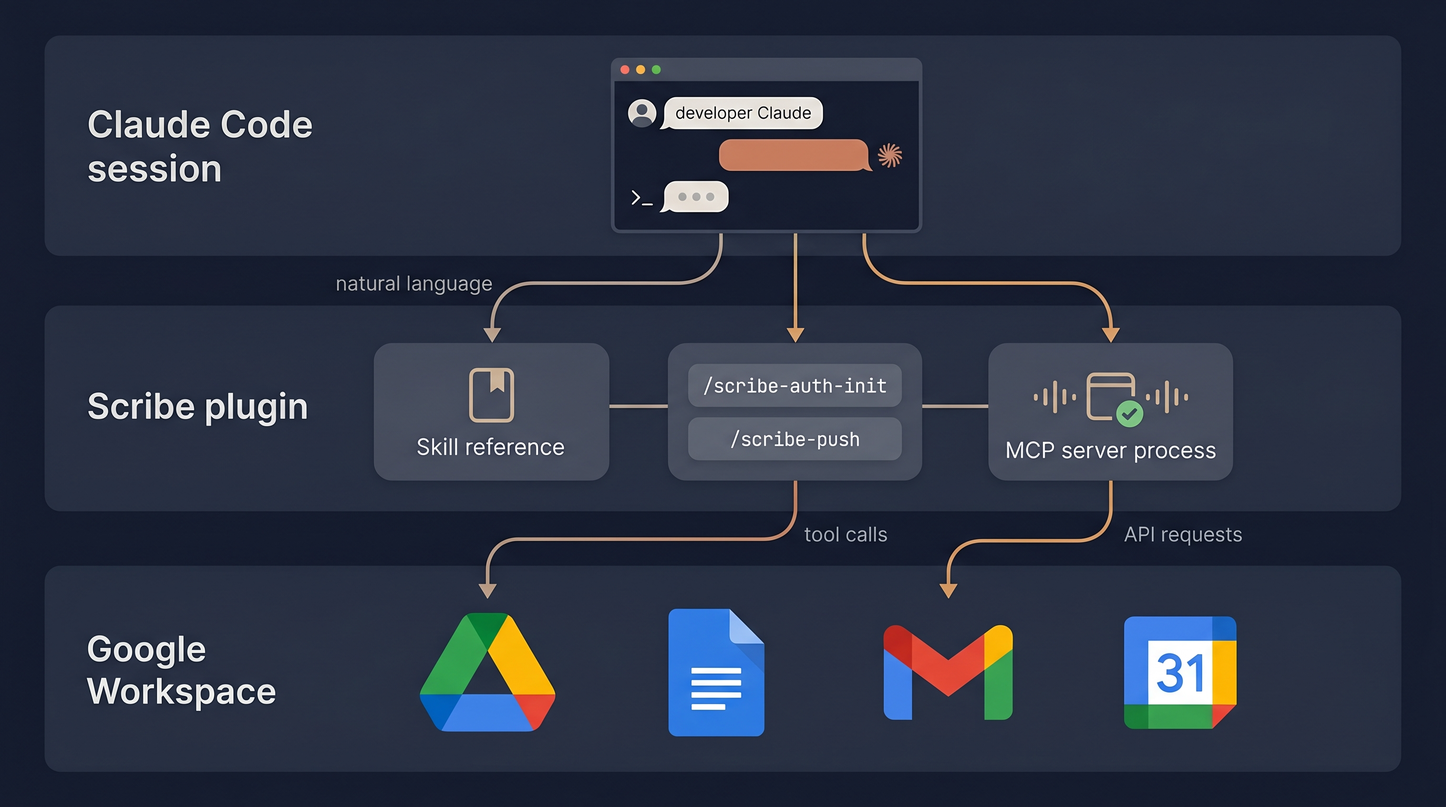
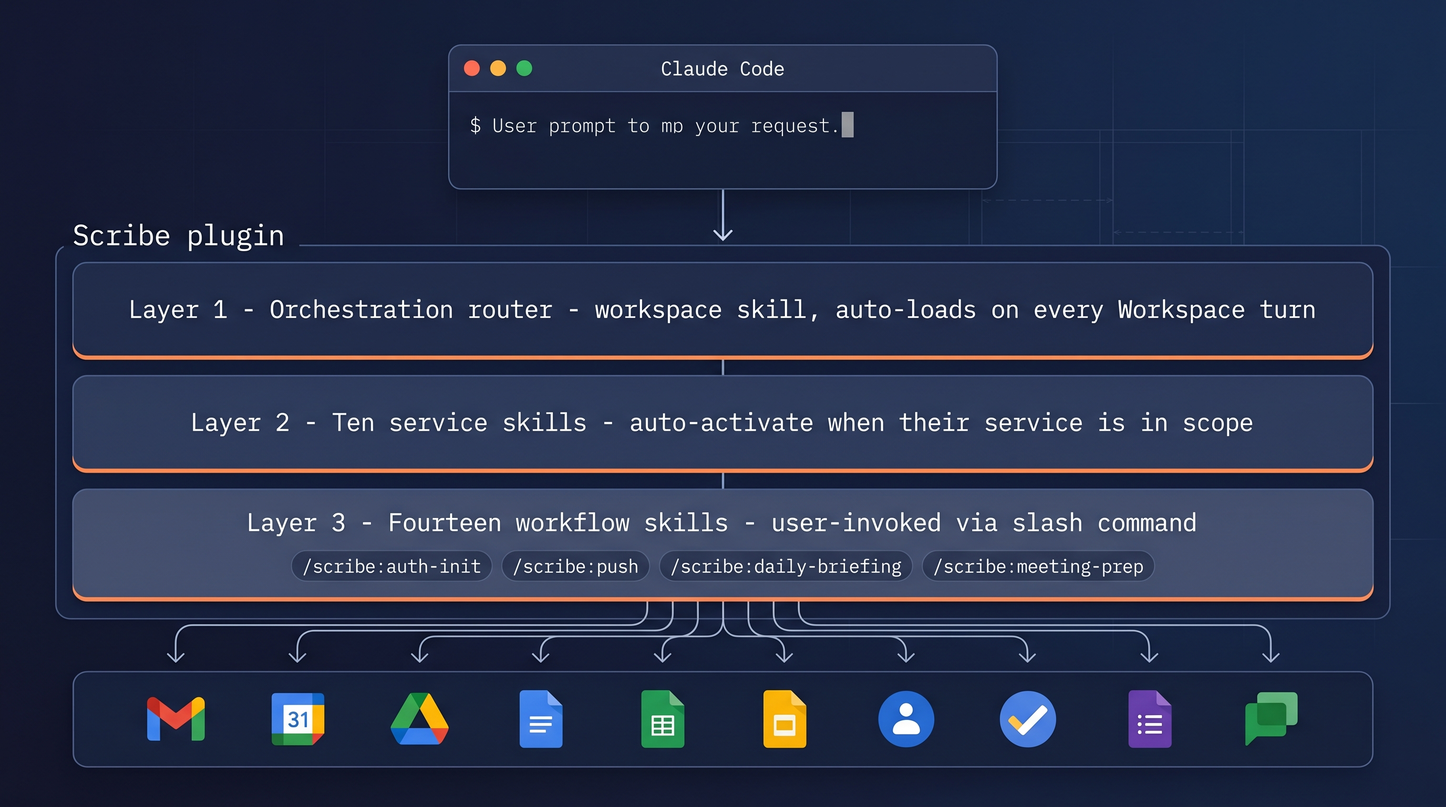
README - StoryBrand rewrite plus refreshed v1.0 image set
Full README rewrite using a StoryBrand seven-part structure - opens
with the operator's pain (manual Workspace stitching, AI that talks
but cannot touch the work), introduces Scribe as the orchestration
layer that's been missing, gives the three-step install plan, then
walks the fourteen workflows, ten services, multi-account routing,
and the three-layer architecture as proof. Closes on the "by tomorrow
morning" success state.

Image refresh -

- hero.png replaced with a v1.0-scope shot - operator seated at the
  laptop, ten Workspace services responding in concert. Replaces the
  v0.x hero that was narrow to the markdown-to-doc story.

- architecture.png replaced with the correct ten-service bottom strip
  and the correct /scribe: slash command syntax. The previous diagram
  showed only four services and used the retired /scribe-auth-init
  hyphen syntax.

- the-problem.png, the-success.png, workflows.png, multi-account.png
  added as new StoryBrand-arc visuals - the late-night three-monitor
  pain, the calm morning briefing, the fourteen workflow cards, and
  the two-org-one-conversation capability that no other plugin offers.

The full old image set is archived to docs/images/legacy/ with a
README explaining each asset and why it was superseded.
before-after.png is reflected as a clean git rename to that folder.

No version bump - this is documentation and asset content only.
plugin.json stays at 1.0.0.

diff --git a/README.md b/README.md
@@ -1,8 +1,8 @@
 # Scribe
 
-**Google Workspace orchestration for Claude Code. Multi-account, multi-service, all 12 Workspace tool groups, 14 named cross-service workflows.**
+**Google Workspace orchestration for Claude Code. Stop stitching your day together by hand.**
 
-![Scribe hero](docs/images/hero.png)
+![Scribe](docs/images/hero.png)
 
 ---
 
@@ -14,126 +14,154 @@
 /scribe:auth-init
 ```
 
-## What you can do
+---
 
-- Run named workflows that span services - daily briefing, inbox triage, meeting prep, weekly wrap, and 10 more
+## Your day in Google Workspace shouldn't look like this
 
-- Compose Workspace operations dynamically from natural-language prompts - "check both my inboxes for anything urgent and create a summary doc"
+![The problem Scribe solves](docs/images/the-problem.png)
 
-- Manage multiple Google accounts in one Claude session - personal Gmail and business Workspace, agency client and own org, all switchable per call
+You run on Google Workspace. Gmail, Calendar, Drive, Docs, Sheets, Slides, Contacts, Tasks, Forms, Chat. Probably across two accounts (personal and business, or agency and client). Most of your day is the seams between them.
 
-- Push markdown into Drive or specific Doc tabs with high fidelity (the original Scribe v0.x feature, still here and improved)
+Search the inbox. Copy the address into a calendar event. Pull the attachments into a Drive folder. Open the Sheet to log the lead. Draft the Doc with the meeting notes. Send the follow-up. Repeat tomorrow.
 
-## The problem v1.0 solves
+You bought an AI assistant. It can write paragraphs about how it would help, but it cannot actually touch any of this work. Every "let me help you" ends at the chat window.
 
-You live in Google Workspace. Email, calendar, docs, sheets, slides, contacts, tasks - all of it. Most of your day is shuffling between them.
+That is the gap Scribe closes.
 
-Scribe v0.x focused on one piece of that grunt work - getting markdown into the right Doc with the right tab. v1.0 expands the scope to the whole Workspace surface, with named workflows for the patterns you'd otherwise hand-stitch every time.
+## Scribe is the layer that's been missing
 
-![Before and after](docs/images/before-after.png)
+Scribe is a Claude Code plugin that gives Claude real, scoped, multi-account access to every service in your Google Workspace and the named workflows for what you actually do with them.
 
-## Workflows
+Not "AI summaries of your emails." Scribe drafts the reply, labels the thread, logs the lead to the tracking sheet, books the follow-up on the calendar, and saves the attachment to the right Drive folder. In one prompt. Across both your accounts if you want.
 
-14 named slash commands that compose multi-service operations. Each accepts natural-language invocation OR explicit flags.
+It is built on Taylor Wilsdon's excellent [`workspace-mcp`](https://github.com/taylorwilsdon/google_workspace_mcp) and adds the orchestration layer - the routing, the multi-account handling, the fourteen named workflows, and the one-command install - that turns a raw MCP into an everyday operating system.
 
-- `/scribe:daily-briefing` - inbox + calendar morning sweep across all accounts
-
-- `/scribe:inbox-triage` - categorise unread, label, draft replies across inboxes
-
-- `/scribe:support-scan` - scan support inbox, log to tracking sheet, draft responses
-
-- `/scribe:meeting-prep` - pull meeting + related emails into a structured prep doc
-
-- `/scribe:thread-to-doc` - convert email thread to Doc, save attachments to client folder
-
-- `/scribe:client-digest` - aggregate emails + calendar + Drive activity for one contact
-
-- `/scribe:weekly-wrap` - compile a week's activity across services into a summary doc
-
-- `/scribe:follow-up-tracker` - find sent emails with no reply, draft follow-ups
-
-- `/scribe:contact-onboard` - bootstrap Drive folder + Contact + Sheet row + welcome email
-
-- `/scribe:doc-chase` - find shared docs with no review activity, nudge reviewers
-
-- `/scribe:attach-vault` - organise email attachments into Drive by sender or project
-
-- `/scribe:event-recap` - post-meeting notes doc + follow-up email draft
-
-- `/scribe:smart-reply` - draft a contextual email using prior history with the contact
-
-- `/scribe:educator-setup` - bootstrap an educator's Drive folder structure and welcome
-
-Detailed reference - [docs/workflows.md](docs/workflows.md).
-
-## Services
-
-10 service skills auto-activate when their service is in scope. They teach Claude the full MCP tool API for each Google service.
-
-- **gmail** - search, read, draft, send, label management
-
-- **calendar** - events, free/busy, focus time, OOO
-
-- **docs** - tabs, batch updates, find/replace, structure
-
-- **drive** - folders, files, sharing, permissions, public access
-
-- **sheets** - ranges, formulas, append rows, table creation
-
-- **slides** - presentations, slide content updates
-
-- **contacts** - lookup by name or email, create contacts
-
-- **tasks** - Google Tasks lists and items
-
-- **forms** - read responses, create forms
-
-- **chat** - send and read Google Chat messages
-
-Detailed reference - [docs/services.md](docs/services.md).
-
-## Architecture
-
-Three-layer skill model:
-
-![Architecture](docs/images/architecture.png)
-
-1. **Orchestration router** (`workspace/SKILL.md`) - auto-loads on every Workspace request. Routes between accounts, services, and workflows.
-
-2. **Service skills** (10 files) - auto-load when their specific service is in scope. Teach the MCP tool API for that service.
-
-3. **Workflow skills** (14 files) - user-invoked via slash command. Each is a complete recipe for one cross-service operation.
-
-This keeps each skill focused (under 500 lines), avoids token bloat, and lets the marketplace user pick what to invoke.
-
-## Multi-org and multi-account
-
-Scribe handles multiple OAuth clients (one per Workspace org if you need cross-org access). The token cache stores credentials per email; multi-account loops are first-class in the orchestration router. See [docs/multi-org-setup.md](docs/multi-org-setup.md) for the symlink-swap pattern.
-
-## Setup
-
-The first-run flow walks through Google Cloud Project setup and OAuth (5-10 minutes once per Workspace org):
+## Three steps to working AI on your Workspace
 
 ```bash
-/scribe:auth-init      # one-time per org
-/scribe:auth-add EMAIL # add another account to the token cache
-/scribe:auth-status    # list authenticated accounts
+# 1. Add the marketplace and install
+/plugin marketplace add juliandickie/scribe-plugin
+/plugin install scribe
+
+# 2. One-time OAuth setup (about 5 minutes per Workspace org)
+/scribe:auth-init
+
+# 3. Speak. Or invoke a named workflow.
+/scribe:daily-briefing
 ```
 
-After that, just speak naturally - "check my inbox for anything urgent today" - or invoke a named workflow.
+That is it. You are now talking to your Workspace.
 
-## Customisation
+## Fourteen workflows that already know the pattern
 
-- `ALLOWED_FILE_DIRS` env var in your `.claude/settings.json` MCP config can extend the upload sandbox beyond `~/.workspace-mcp/attachments`.
+![Workflow gallery](docs/images/workflows.png)
 
-- `--permissions SERVICE:LEVEL` override (in place of `--tools`) lets you restrict OAuth scopes per service. See `skills/auth-init/SKILL.md` "Restricting scopes (advanced)" section.
+Named slash commands for the cross-service patterns you would otherwise hand-stitch every time. Each one accepts natural-language invocation or explicit flags.
 
-- Workflow skills are independent files - fork the repo and edit any to suit your workflow needs.
+- `/scribe:daily-briefing` - morning sweep of inbox plus calendar across every account you've authenticated.
+
+- `/scribe:inbox-triage` - categorise unread, apply labels, draft replies in batch across inboxes.
+
+- `/scribe:support-scan` - scan a support inbox, log each ticket to the tracking sheet, draft responses.
+
+- `/scribe:meeting-prep` - pull a meeting plus the related thread history into a structured prep doc.
+
+- `/scribe:thread-to-doc` - convert an email thread into a Doc with attachments saved to the client folder.
+
+- `/scribe:client-digest` - aggregate emails plus calendar plus Drive activity for a single contact or company.
+
+- `/scribe:weekly-wrap` - compile a week of activity across services into a summary doc.
+
+- `/scribe:follow-up-tracker` - find sent emails with no reply, draft the nudge.
+
+- `/scribe:contact-onboard` - bootstrap a Drive folder plus a Contact plus a Sheet row plus a welcome email in one move.
+
+- `/scribe:doc-chase` - find shared docs with no review activity, ping the reviewers.
+
+- `/scribe:attach-vault` - organise email attachments into Drive by sender or by project.
+
+- `/scribe:event-recap` - post-meeting notes doc plus follow-up email draft, generated together.
+
+- `/scribe:smart-reply` - draft a contextual reply using the prior history with that contact.
+
+- `/scribe:educator-setup` - bootstrap an educator's Drive folder structure and welcome.
+
+Full reference - [docs/workflows.md](docs/workflows.md).
+
+## Ten services. One conversation. Every account.
+
+![Multi-account, multi-service](docs/images/multi-account.png)
+
+Scribe covers the full Workspace surface, not just the bits that are easy.
+
+| Service | What Claude can do |
+| --- | --- |
+| Gmail | Search, read, draft, send, label, batch-modify, attachments |
+| Calendar | Events, free or busy, focus time, out of office, multi-calendar |
+| Docs | Tabs, batch updates, find and replace, structured insertion |
+| Drive | Folders, files, sharing, permissions, public access checks |
+| Sheets | Ranges, formulas, append rows, table creation, conditional formatting |
+| Slides | Read decks, create presentations, update slide content |
+| Contacts | Look up by name or email, create contacts, manage groups |
+| Tasks | Google Tasks lists and items, complete, manage |
+| Forms | Read responses, create forms, list submissions |
+| Chat | Send and read Google Chat messages |
+
+And it handles multiple authenticated accounts in a single Claude session. Personal Gmail and business Workspace. Agency org and own org. Each call routes to the right identity, automatically or by your direction.
+
+```text
+You    "Check both my inboxes for anything urgent today and draft replies."
+Scribe (queries julian@personal-gmail and julian@business-workspace in parallel)
+       (drafts replies in each account, labels the originals,
+        surfaces a single ranked summary back to you)
+```
+
+Service reference - [docs/services.md](docs/services.md). Multi-org setup - [docs/multi-org-setup.md](docs/multi-org-setup.md).
+
+## What changes by tomorrow morning
+
+![Morning briefing](docs/images/the-success.png)
+
+You make coffee. By the time you sit down, `/scribe:daily-briefing` has already done the rounds. You read one screen instead of opening ten tabs.
+
+The support inbox is logged into the tracking Sheet without you touching it. The contract follow-ups went out yesterday. The meeting prep doc for ten is already in the right Drive folder, with the prior thread history pulled in and the agenda drafted.
+
+You spend your morning on the work that actually needs you. Not the seams.
+
+## Built on solid ground
+
+![Three-layer architecture](docs/images/architecture.png)
+
+Scribe is thirty skills organised in a three-layer architecture.
+
+1. **Orchestration router** - one skill that auto-loads on every Workspace request and routes between accounts, services, and workflows.
+
+2. **Service skills** - ten skills, one per Google service, each auto-activating when their service is in scope. They teach Claude the full MCP tool API for that surface.
+
+3. **Workflow skills** - fourteen user-invoked skills (the `/scribe:` commands above), each a complete recipe for one cross-service pattern.
+
+Each skill stays under 500 lines, so Claude reads only what it needs. The underlying MCP server is taylorwilsdon's [`workspace-mcp`](https://github.com/taylorwilsdon/google_workspace_mcp), pinned to a known-good version (`workspace-mcp@1.20.4`) and pulled automatically by uvx on install.
+
+## Setup, multi-org, customisation
+
+The first-run flow walks through Google Cloud Project setup and OAuth (5 to 10 minutes once per Workspace org).
+
+```bash
+/scribe:auth-init        # one-time per org
+/scribe:auth-add EMAIL   # add another account to the token cache
+/scribe:auth-status      # list authenticated accounts
+```
+
+Two Workspace orgs that don't share an OAuth consent screen? See [docs/multi-org-setup.md](docs/multi-org-setup.md) for the symlink-swap pattern that lets one Claude session reach both.
+
+Want to tighten the OAuth scopes per service? `--permissions SERVICE:LEVEL` lives in `skills/auth-init/SKILL.md` under "Restricting scopes (advanced)."
+
+Want to fork a workflow to your shape? Every workflow is an independent file under `skills/`. Edit any of them. Nothing else breaks.
 
 ## License
 
-MIT.
+MIT. Use it, modify it, ship it.
 
 ## Credits
 
-Wraps [`workspace-mcp`](https://github.com/taylorwilsdon/google_workspace_mcp) by [@taylorwilsdon](https://github.com/taylorwilsdon). The breadth of Scribe v1.0 is possible because of his work on the underlying MCP server.
+Scribe is the orchestration layer. The capability underneath is [`workspace-mcp`](https://github.com/taylorwilsdon/google_workspace_mcp) by [@taylorwilsdon](https://github.com/taylorwilsdon). The breadth of v1.0 is only possible because of his work. If you want the raw MCP without the orchestration, install it directly from PyPI; if you want the workflows, the multi-account routing, and the one-command setup, install Scribe.

diff --git a/docs/images/legacy/README.md b/docs/images/legacy/README.md
@@ -1,0 +1,17 @@
+# Legacy images
+
+Archived 2026-05-27 during the v1.0 README rewrite.
+
+Three originals (`hero.png`, `architecture.png`, `before-after.png`) told the v0.x "push markdown into Google Docs" story. v1.0 expanded scope to the full ten-service Workspace surface plus fourteen named workflows, so the visual story was redone from scratch using a StoryBrand structure. The new images live one level up in `docs/images/`.
+
+Files in this folder -
+
+- `hero.png` - original v0.x hero (SCRIBE wordmark + glowing orb shooting markdown chars into a Doc icon)
+
+- `hero-v1.png` - first v1.0 hero generation. Operator was standing beside the laptop rather than actually using it, and the service-icon constellation duplicated several services. Superseded same-day by the second-pass hero now in `docs/images/hero.png`.
+
+- `architecture.png` - original v0.x architecture diagram. Showed three layers but with stale `/scribe-auth-init` slash command syntax (since corrected to `/scribe:auth-init`) and only four of the ten Workspace service icons (since expanded to all ten).
+
+- `before-after.png` - generic cartoon "stressed vs calm" composition. Replaced by `the-problem.png` (one half) and `the-success.png` (the other half), both reshot as photorealistic editorial pieces.
+
+Kept here for reference and so existing forks or in-flight branches can still resolve historical image links if needed. Safe to delete once nothing external still links to these paths.
